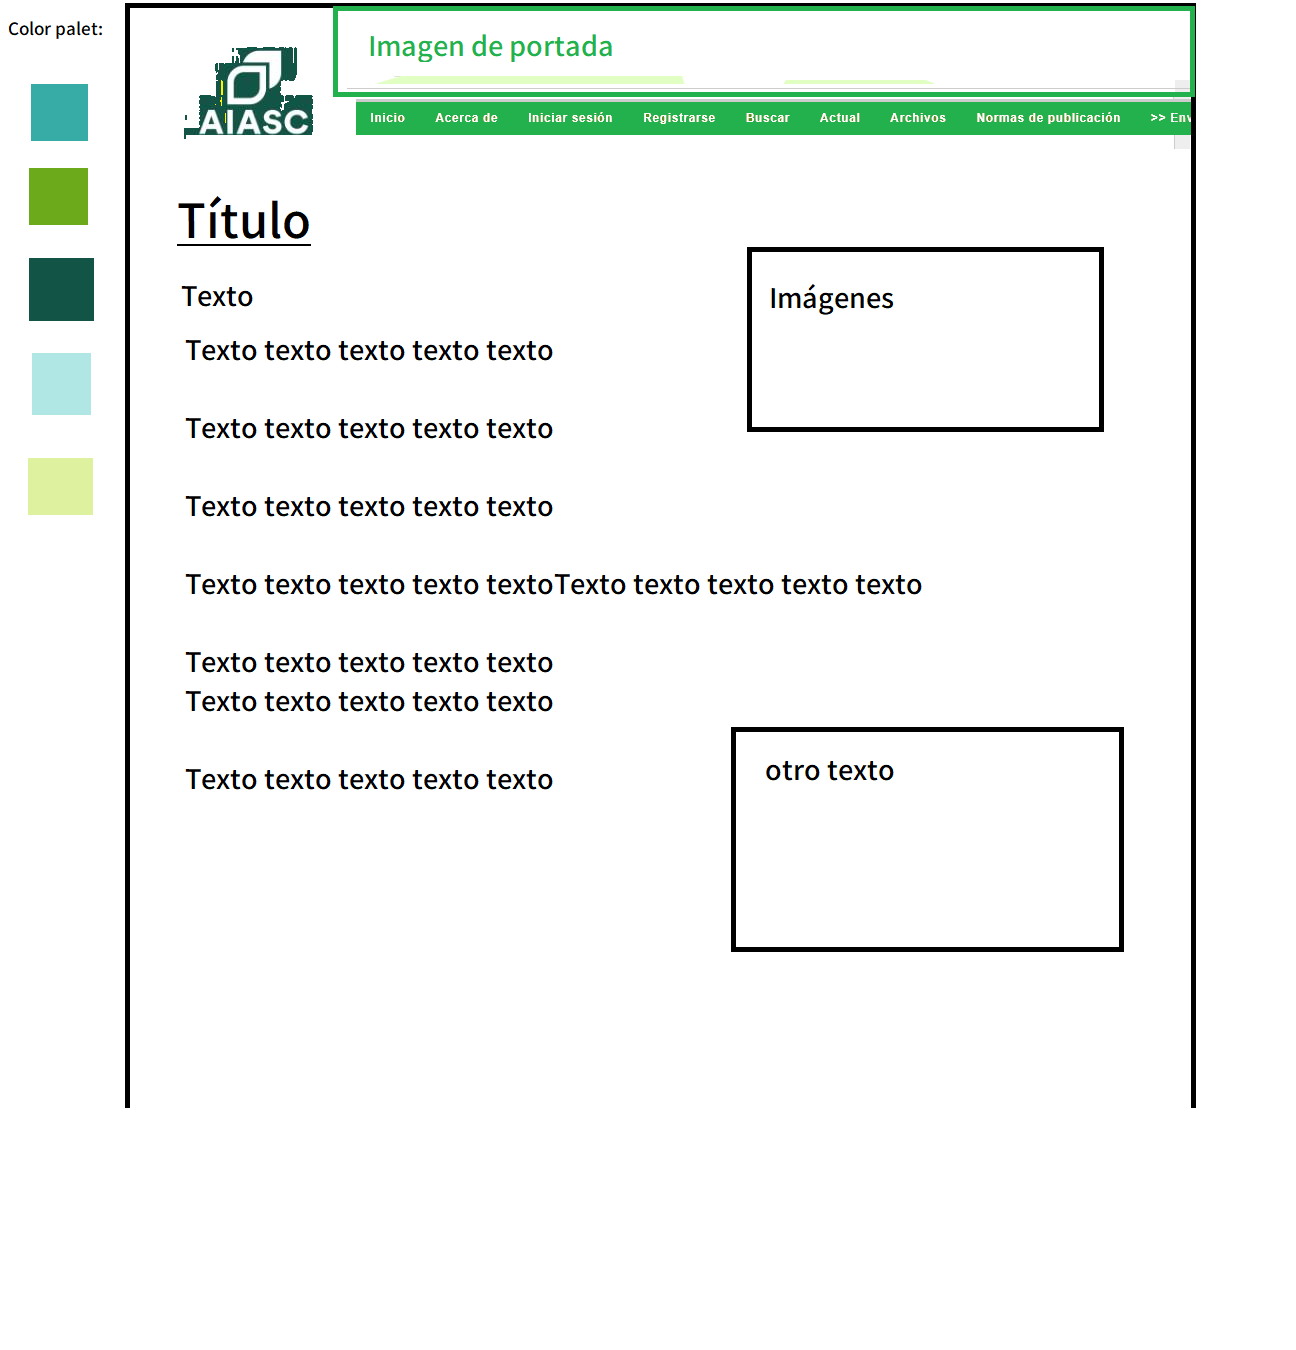
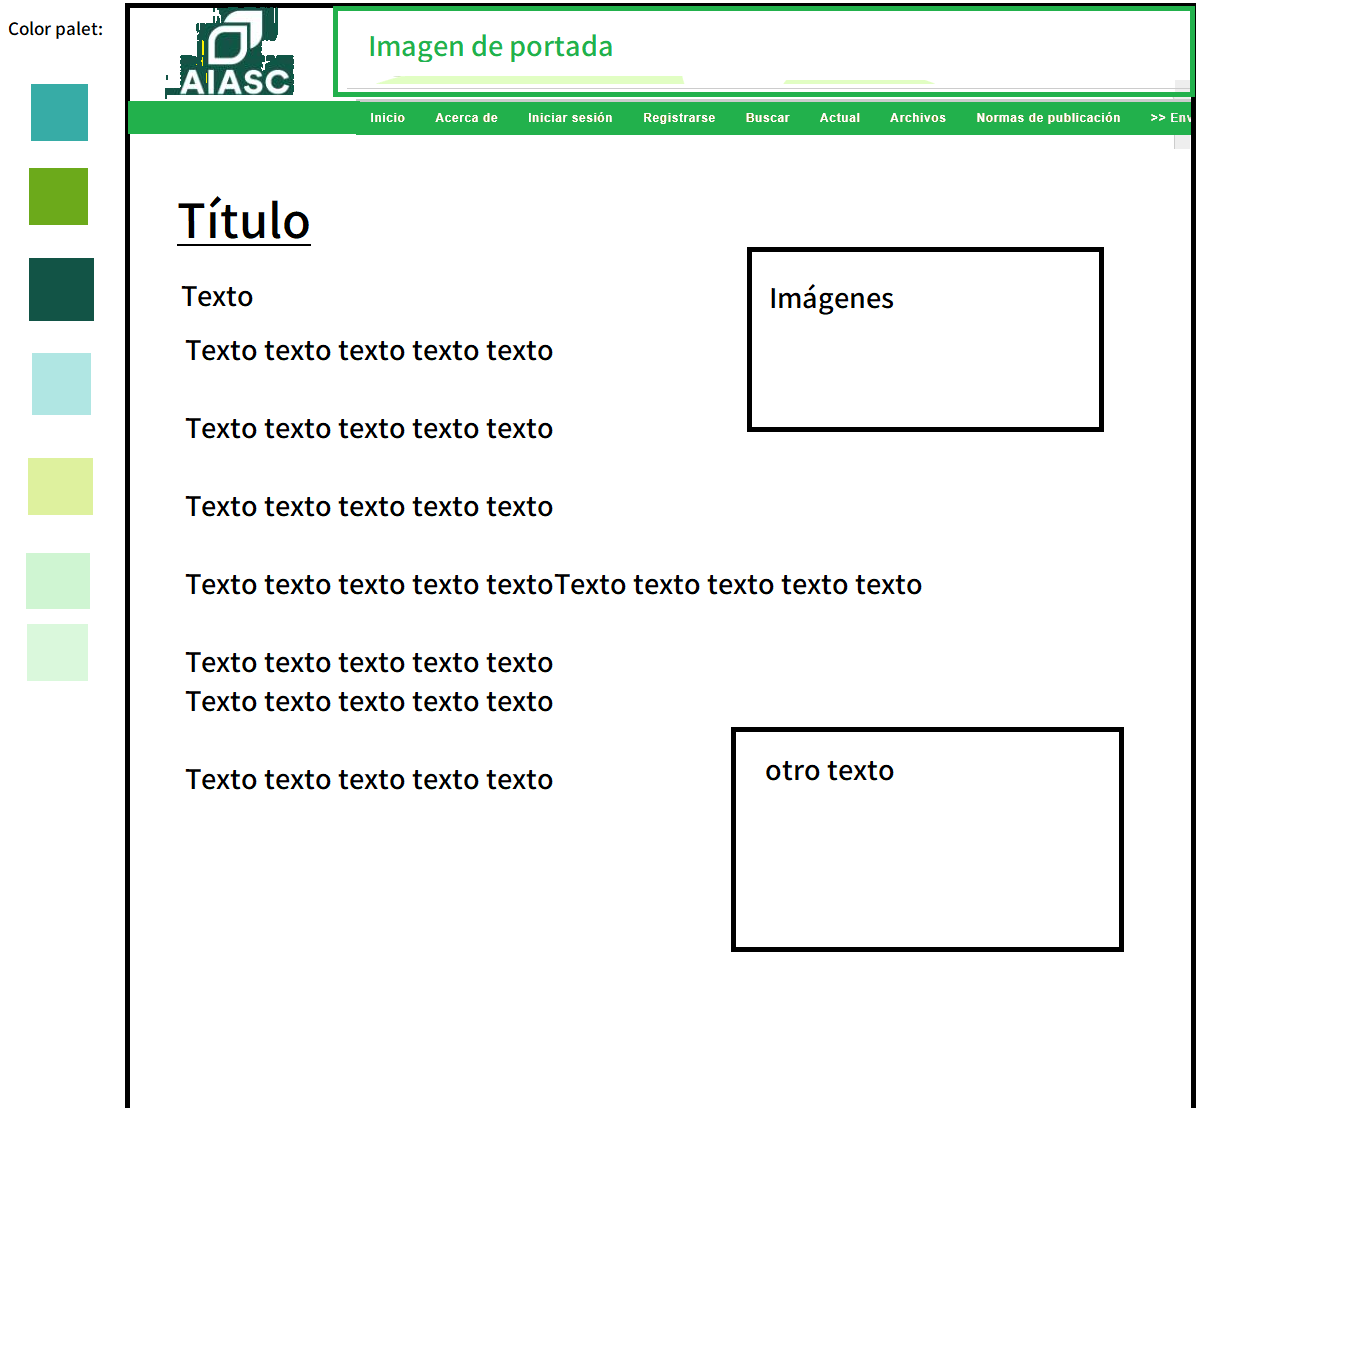
mejora estética

Changed region(s): [[0.0, 0.0, 0.9259, 0.8089], [0.5247, 0.5289, 0.679, 0.7156], [0.5247, 0.1867, 0.679, 0.3422]]

diff --git a/src/app/novedades/page.tsx b/src/app/novedades/page.tsx
@@ -1,0 +1,15 @@
+export default function NovedadesPage() {
+  return (
+    <>
+      <h1 className="page-title">Novedades</h1>
+      <hr className="green-rule" />
+
+      <div className="section-row">Novedad 1</div>
+      <div className="section-row">Novedad 2</div>
+      <div className="section-row">Novedad 3</div>
+      <div className="section-row">Novedad 4</div>
+      <div className="section-row">Novedad 5</div>
+      <div className="section-row">Novedad 6</div>
+    </>
+  );
+}

diff --git a/src/app/eventos/page.tsx b/src/app/eventos/page.tsx
@@ -9,7 +9,7 @@ export default function EventosPage() {
       <div className="section-row">Evento 3</div>
 
       {/* Cursos corrientes */}
-      <div className="cursos-header">Cursos corrientes</div>
+      <div className="subheader">Cursos corrientes</div>
       <div className="section-row">Curso 1</div>
       <div className="section-row">Curso 2</div>
       <div className="section-row">Curso 3</div>

diff --git a/src/app/page.tsx b/src/app/page.tsx
@@ -24,7 +24,7 @@ export default function HomePage() {
         <div className="section-row">Evento 3</div>
 
         {/* Cursos corrientes */}
-        <div className="cursos-header">Cursos corrientes</div>
+        <div className="subheader">Cursos corrientes</div>
         <div className="section-row">Curso 1</div>
         <div className="section-row">Curso 2</div>
         <div className="section-row">Curso 3</div>